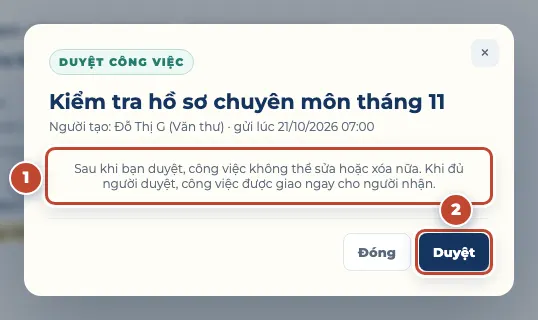
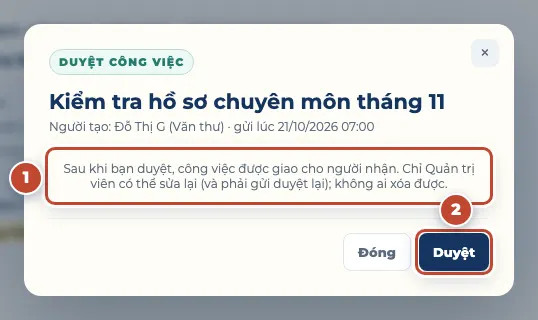
fix(work): approval polish — approve hint, editor-credited re-approval, form validation
- BGH approve dialog: approved work goes to assignees; only an admin can
  edit again (with re-approval) and nobody can delete. Guide text and
  cv-duyet-cong-viec-modal screenshot reshot.
- Re-approval bell/push credit the editor ("{tên} đã sửa và gửi lại công
  việc này để duyệt") when someone other than the creator resubmitted;
  first submissions keep the creator wording. Pure helpers
  workApprovalResubmittedBy / workApprovalRequestText with tests.
- Work editor validates before the save confirmation / preview; a missing
  approver shows only the picker field error (no duplicate banner).
- Completion evidence form: noValidate + inline Vietnamese
  "Vui lòng chọn loại văn bản." instead of the browser tooltip.

Changed region(s): [[0.119, 0.5, 0.8922, 0.5938]]

diff --git a/public/huong-dan-su-dung.html b/public/huong-dan-su-dung.html
@@ -1000,10 +1000,10 @@ mark { background: #fff3c8; color: inherit; border-radius: 3px; padding: 0 1px; 
 <ol class="steps"><li>Mở <strong>Công việc</strong>. Mục <strong>Chờ tôi duyệt</strong> nằm đầu trang; số đỏ cạnh menu đã tính cả các việc này. Nút <strong>?</strong> <span class="step-ref" aria-label="số 1">1</span> cạnh tên trang mở hướng dẫn này.</li><li>Mỗi thẻ <span class="step-ref" aria-label="số 2">2</span> ghi Văn thư gửi, giờ gửi, tệp đính kèm, người nhận, nội dung và hạn.</li><li>Khung <strong>Ban giám hiệu duyệt x/y</strong> <span class="step-ref" aria-label="số 3">3</span> cho biết ai đã duyệt, ai còn chờ.</li><li>Chưa đồng ý: bấm <strong>Trả lại</strong> <span class="step-ref" aria-label="số 4">4</span>. Đồng ý: bấm <strong>Duyệt</strong> <span class="step-ref" aria-label="số 5">5</span>.</li><li>Khi đã có người duyệt trước <span class="step-ref" aria-label="số 6">6</span>, thẻ chỉ còn nút <strong>Duyệt</strong>, không trả lại được nữa.</li><li>Bấm <strong>Đã xử lý trong 30 ngày</strong> <span class="step-ref" aria-label="số 7">7</span> để xem lại những việc mình đã duyệt hoặc trả lại.</li></ol>
 <figure class="figure" id="hinh-55"><button type="button" class="figure-zoom" aria-label="Phóng to hình 55"><img src="huong-dan/cv-cho-toi-duyet.webp" width="1018" height="1059" alt="Hình 55. Chờ tôi duyệt: 1 nút ?, 2 công việc chờ duyệt, 3 tiến độ duyệt, 4 Trả lại, 5 Duyệt, 6 việc đã có người duyệt, 7 lịch sử 30 ngày" loading="lazy" decoding="async"></button><figcaption><b>Hình 55.</b> Chờ tôi duyệt: 1 nút ?, 2 công việc chờ duyệt, 3 tiến độ duyệt, 4 Trả lại, 5 Duyệt, 6 việc đã có người duyệt, 7 lịch sử 30 ngày</figcaption></figure>
 <h5>Duyệt</h5>
-<p>Hộp xác nhận nhắc: sau khi duyệt, công việc <strong>không sửa, xóa được nữa</strong> <span class="step-ref" aria-label="số 1">1</span>. Bấm <strong>Duyệt</strong> <span class="step-ref" aria-label="số 2">2</span>. Khi đủ người duyệt, người nhận thấy việc và nhận thông báo ngay.</p>
+<p>Hộp xác nhận nhắc <span class="step-ref" aria-label="số 1">1</span>: sau khi duyệt, công việc được giao cho người nhận; chỉ <strong>Quản trị viên</strong> còn sửa được (và phải gửi duyệt lại), không ai xóa được. Bấm <strong>Duyệt</strong> <span class="step-ref" aria-label="số 2">2</span>. Khi đủ người duyệt, người nhận thấy việc và nhận thông báo ngay.</p>
 <h5>Trả lại</h5>
 <p>Ghi <strong>Lý do trả lại</strong> <span class="step-ref" aria-label="số 1">1</span> (bắt buộc, tối đa 500 ký tự), rồi bấm <strong>Trả lại</strong> <span class="step-ref" aria-label="số 2">2</span>. Văn thư nhận thông báo kèm lý do, sửa và gửi duyệt lại.</p>
-<div class="figure-row"><figure class="figure" id="hinh-56"><button type="button" class="figure-zoom" aria-label="Phóng to hình 56"><img src="huong-dan/cv-duyet-cong-viec-modal.webp" width="538" height="320" alt="Hình 56. Hộp Duyệt công việc: 1 lưu ý khóa sửa/xóa, 2 Duyệt" loading="lazy" decoding="async"></button><figcaption><b>Hình 56.</b> Hộp Duyệt công việc: 1 lưu ý khóa sửa/xóa, 2 Duyệt</figcaption></figure><figure class="figure" id="hinh-57"><button type="button" class="figure-zoom" aria-label="Phóng to hình 57"><img src="huong-dan/cv-tra-lai-modal.webp" width="538" height="454" alt="Hình 57. Hộp Trả lại công việc: 1 lý do, 2 Trả lại" loading="lazy" decoding="async"></button><figcaption><b>Hình 57.</b> Hộp Trả lại công việc: 1 lý do, 2 Trả lại</figcaption></figure></div>
+<div class="figure-row"><figure class="figure" id="hinh-56"><button type="button" class="figure-zoom" aria-label="Phóng to hình 56"><img src="huong-dan/cv-duyet-cong-viec-modal.webp" width="538" height="320" alt="Hình 56. Hộp Duyệt công việc: 1 lưu ý sau khi duyệt, 2 Duyệt" loading="lazy" decoding="async"></button><figcaption><b>Hình 56.</b> Hộp Duyệt công việc: 1 lưu ý sau khi duyệt, 2 Duyệt</figcaption></figure><figure class="figure" id="hinh-57"><button type="button" class="figure-zoom" aria-label="Phóng to hình 57"><img src="huong-dan/cv-tra-lai-modal.webp" width="538" height="454" alt="Hình 57. Hộp Trả lại công việc: 1 lý do, 2 Trả lại" loading="lazy" decoding="async"></button><figcaption><b>Hình 57.</b> Hộp Trả lại công việc: 1 lý do, 2 Trả lại</figcaption></figure></div>
 <p>Khi Văn thư gửi (hoặc gửi lại) công việc, chuông hiện <strong>Công việc chờ duyệt</strong> <span class="step-ref" aria-label="số 1">1</span>; bấm vào để mở đúng thẻ.</p>
 <div class="figure-row"><figure class="figure" id="hinh-58"><button type="button" class="figure-zoom" aria-label="Phóng to hình 58"><img src="huong-dan/cv-thong-bao-duyet.webp" width="471" height="402" alt="Hình 58. Chuông của Ban Giám hiệu: 1 Công việc chờ duyệt" loading="lazy" decoding="async"></button><figcaption><b>Hình 58.</b> Chuông của Ban Giám hiệu: 1 Công việc chờ duyệt</figcaption></figure><figure class="figure is-phone" id="hinh-59"><button type="button" class="figure-zoom" aria-label="Phóng to hình 59"><img src="huong-dan/cv-cho-toi-duyet-mobile.webp" width="390" height="844" alt="Hình 59. Trên điện thoại: 1 Trả lại, 2 Duyệt" loading="lazy" decoding="async"></button><figcaption><b>Hình 59.</b> Trên điện thoại: 1 Trả lại, 2 Duyệt</figcaption></figure></div>
 <aside class="callout callout-warn"><p class="callout-title"><svg viewBox="0 0 24 24" width="18" height="18" fill="none" stroke="currentColor" stroke-width="2" stroke-linecap="round" stroke-linejoin="round" aria-hidden="true"><path d="M12 3 2 20h20L12 3Z"/><path d="M12 10v4M12 17h.01"/></svg><span>Lưu ý</span></p><p><strong>Trả lại</strong> chỉ dùng được khi <strong>chưa ai duyệt</strong>. Lần duyệt đầu tiên khóa công việc: Văn thư không sửa, xóa được nữa, kể cả khi người duyệt khác chưa quyết định. Chỉ Administrator còn sửa được, và khi đó công việc quay lại <strong>Chờ tôi duyệt</strong> để duyệt lại.</p></aside>
@@ -1011,7 +1011,7 @@ mark { background: #fff3c8; color: inherit; border-radius: 3px; padding: 0 1px; 
 <h4>Câu hỏi thường gặp</h4>
 <details class="faq"><summary>Tôi không thấy mục Chờ tôi duyệt?</summary><div class="faq-answer"><p>Mục này chỉ hiện với người được Văn thư chọn làm người duyệt (chức vụ 4–5 sao). Khi không có việc nào, mục báo “Không có công việc chờ bạn duyệt”.</p></div></details>
 <details class="faq"><summary>Văn thư sửa công việc tôi đã trả lại thì sao?</summary><div class="faq-answer"><p>Công việc quay lại <strong>Chờ tôi duyệt</strong> như một yêu cầu mới; mọi người duyệt quyết định lại từ đầu.</p></div></details>
-<details class="faq"><summary>Công việc tôi đã duyệt lại hiện trong Chờ tôi duyệt?</summary><div class="faq-answer"><p>Administrator đã sửa công việc sau khi duyệt. Mọi quyết định cũ được xóa, người nhận tạm không thấy việc cho đến khi đủ người duyệt lại. Thẻ ghi “Đã chỉnh sửa bởi … lúc …” để biết ai sửa.</p></div></details>
+<details class="faq"><summary>Công việc tôi đã duyệt lại hiện trong Chờ tôi duyệt?</summary><div class="faq-answer"><p>Administrator đã sửa công việc sau khi duyệt. Mọi quyết định cũ được xóa, người nhận tạm không thấy việc cho đến khi đủ người duyệt lại. Chuông và thông báo đẩy ghi “{tên người sửa} đã sửa và gửi lại công việc này để duyệt”; thẻ ghi “Đã chỉnh sửa bởi … lúc …” để biết ai sửa.</p></div></details>
 </article>
 <article class="topic" id="cv-duyet-hoan-thanh" data-keywords="duyet hoan thanh, cham diem, muc do, phan tram, tra ve, chua duyet">
 <header class="topic-head"><h3><a class="topic-anchor" href="#cv-duyet-hoan-thanh">Duyệt kết quả hoàn thành</a></h3><div class="chips"><span class="chip chip-menu">Công việc</span><span class="chip">Người tạo công việc (Văn thư</span><span class="chip">Tổ trưởng</span><span class="chip">Tổ phó</span><span class="chip">Ban Giám hiệu</span><span class="chip">Administrator)</span></div></header>

diff --git a/src/work/WorkViews.jsx b/src/work/WorkViews.jsx
@@ -558,7 +558,8 @@ function SubmitterNote({ note, label = 'Nội dung từ người nộp' }) {
   );
 }
 
-function DocumentTypeField({ types, value, onChange, id = 'document-type' }) {
+function DocumentTypeField({ types, value, onChange, id = 'document-type', error = '' }) {
+  const errorId = `${id}-error`;
   return (
     <label className="duty-field work-document-type-field" htmlFor={id}>
       <span className="duty-field-label">Loại văn bản</span>
@@ -567,12 +568,15 @@ function DocumentTypeField({ types, value, onChange, id = 'document-type' }) {
         required
         value={value}
         onChange={(event) => onChange(event.target.value)}
+        aria-invalid={error ? true : undefined}
+        aria-describedby={error ? errorId : undefined}
       >
         <option value="">Chọn loại văn bản</option>
         {(types || []).map((item) => (
           <option key={item._id} value={item._id}>{item.name}</option>
         ))}
       </select>
+      {error ? <span id={errorId} className="work-field-error" role="alert">{error}</span> : null}
     </label>
   );
 }
@@ -582,6 +586,7 @@ function CompletionSubmitModal({ title, onClose, onSubmit, saving, documentTypes
   const [file, setFile] = useState(null);
   const [note, setNote] = useState('');
   const [documentTypeId, setDocumentTypeId] = useState('');
+  const [documentTypeError, setDocumentTypeError] = useState('');
   const [error, setError] = useState('');
   const submit = async (event) => {
     event.preventDefault();
@@ -590,9 +595,11 @@ function CompletionSubmitModal({ title, onClose, onSubmit, saving, documentTypes
       return;
     }
     if (requireDocumentType && !documentTypeId) {
-      setError('Vui lòng chọn loại văn bản.');
+      setError('');
+      setDocumentTypeError('Vui lòng chọn loại văn bản.');
       return;
     }
+    setDocumentTypeError('');
     setError('');
     try {
       const token = await fetchAccessToken({ forceRefreshToken: false });
@@ -629,7 +636,7 @@ function CompletionSubmitModal({ title, onClose, onSubmit, saving, documentTypes
   };
   return (
     <div className="work-modal-backdrop" role="presentation">
-      <form className="work-modal" onSubmit={submit}>
+      <form className="work-modal" onSubmit={submit} noValidate>
         <button type="button" className="work-modal-close" onClick={onClose} aria-label="Đóng">×</button>
         <span className="work-kicker">Nộp công việc</span>
         <h3>{title}</h3>
@@ -639,7 +646,10 @@ function CompletionSubmitModal({ title, onClose, onSubmit, saving, documentTypes
           label="Kéo thả tài liệu/hình vào đây"
           onFile={(nextFile, fileError) => {
             setFile(nextFile);
-            if (!nextFile) setDocumentTypeId('');
+            if (!nextFile) {
+              setDocumentTypeId('');
+              setDocumentTypeError('');
+            }
             if (fileError) setError(fileError);
           }}
         />
@@ -648,7 +658,11 @@ function CompletionSubmitModal({ title, onClose, onSubmit, saving, documentTypes
             id="completion-document-type"
             types={documentTypes}
             value={documentTypeId}
-            onChange={setDocumentTypeId}
+            onChange={(next) => {
+              setDocumentTypeId(next);
+              if (next) setDocumentTypeError('');
+            }}
+            error={documentTypeError}
           />
         ) : null}
         <label className="work-field-label" htmlFor="completion-note">Nội dung gửi người giao (không bắt buộc)</label>
@@ -873,6 +887,31 @@ export function WorkManagement({ allowCreate = true, hideCompletionQueue = false
     if (fallback?._id) setDocumentTypeId(fallback._id);
   }, [documentTypeId, editingDocument, listData?.documentTypes, options?.documentTypes]);
 
+  /**
+   * Client-side checks run before any confirmation/preview (the server re-checks).
+   * A missing approver shows only the picker's field error, not a second banner.
+   */
+  const validateWorkForm = () => {
+    if (!title.trim()) {
+      setFeedback({ type: 'error', text: 'Vui lòng nhập tên công việc.' });
+      return false;
+    }
+    if (!assignments.length) {
+      setFeedback({ type: 'error', text: 'Vui lòng thêm ít nhất một phân công.' });
+      return false;
+    }
+    if (file && !documentTypeId) {
+      setFeedback({ type: 'error', text: 'Vui lòng chọn loại văn bản.' });
+      return false;
+    }
+    if (needsApproverPick && !approverIds.length) {
+      setFeedback({ type: '', text: '' });
+      setApproverError('Vui lòng chọn ít nhất một người duyệt.');
+      return false;
+    }
+    return true;
+  };
+
   const persistWork = async () => {
     if (saving) return;
     setFeedback({ type: '', text: '' });
@@ -897,19 +936,7 @@ export function WorkManagement({ allowCreate = true, hideCompletionQueue = false
       }
       return;
     }
-    if (!title.trim()) {
-      return setFeedback({ type: 'error', text: 'Vui lòng nhập tên công việc.' });
-    }
-    if (!assignments.length) {
-      return setFeedback({ type: 'error', text: 'Vui lòng thêm ít nhất một phân công.' });
-    }
-    if (file && !documentTypeId) {
-      return setFeedback({ type: 'error', text: 'Vui lòng chọn loại văn bản.' });
-    }
-    if (needsApproverPick && !approverIds.length) {
-      setApproverError('Vui lòng chọn ít nhất một người duyệt.');
-      return setFeedback({ type: 'error', text: 'Vui lòng chọn người duyệt thuộc Ban giám hiệu.' });
-    }
+    if (!validateWorkForm()) return;
     setSaving(true);
     let stage = file ? 'upload' : 'save';
     let uploaded = null;
@@ -1012,17 +1039,10 @@ export function WorkManagement({ allowCreate = true, hideCompletionQueue = false
       void persistWork();
       return;
     }
+    // Validate first so a missing field never hides behind the save confirmation.
+    if (!validateWorkForm()) return;
     if (editingDocument) {
       setEditConfirm('save');
-      return;
-    }
-    if (!assignments.length) {
-      setFeedback({ type: 'error', text: 'Vui lòng thêm ít nhất một phân công.' });
-      return;
-    }
-    if (needsApproverPick && !approverIds.length) {
-      setApproverError('Vui lòng chọn ít nhất một người duyệt.');
-      setFeedback({ type: 'error', text: 'Vui lòng chọn người duyệt thuộc Ban giám hiệu.' });
       return;
     }
     setPreviewOpen(true);

diff --git a/convex/workDocumentPolicy.ts b/convex/workDocumentPolicy.ts
@@ -428,3 +428,43 @@ export function workCreatorApprovalNotice(
   }
   return null;
 }
+
+/** Bell wording for a first submission (or a creator's own resubmission). */
+export const WORK_APPROVAL_REQUEST_CREATOR_TEXT =
+  "Văn thư đã gửi công việc này, cần bạn duyệt trước khi giao.";
+
+/**
+ * Who sent the current approval round, when it was not the creator: an edit
+ * (e.g. an admin re-approval edit) stamps `lastEditedBy` together with
+ * `submittedAt`. Returns the editor's id, or null when the creator submitted.
+ */
+export function workApprovalResubmittedBy(document: {
+  createdBy?: unknown;
+  lastEditedBy?: unknown;
+  lastEditedAt?: unknown;
+  submittedAt?: unknown;
+}): string | null {
+  const editor = String(document.lastEditedBy ?? "").trim();
+  if (!editor || editor === String(document.createdBy ?? "")) return null;
+  const editedAt = Number(document.lastEditedAt) || 0;
+  const submittedAt = Number(document.submittedAt) || 0;
+  if (!editedAt || editedAt < submittedAt) return null;
+  return editor;
+}
+
+/**
+ * Approval-request texts for Ban giám hiệu. `editorName` is set only when the
+ * round was (re)submitted by someone other than the creator.
+ */
+export function workApprovalRequestText(args: { title: string; editorName?: string | null }) {
+  const title = String(args.title || "").trim();
+  const editorName = String(args.editorName || "").trim();
+  if (!editorName) {
+    return { description: WORK_APPROVAL_REQUEST_CREATOR_TEXT, pushBody: title };
+  }
+  const sentence = `${editorName} đã sửa và gửi lại công việc này để duyệt`;
+  return {
+    description: `${sentence}.`,
+    pushBody: title ? `${sentence}: ${title}` : `${sentence}.`,
+  };
+}

diff --git a/convex/work.ts b/convex/work.ts
@@ -50,6 +50,7 @@ import {
   isEligibleWorkApprover,
   isWorkApprovalLocked,
   workApprovalDecidedAt,
+  workApprovalRequestText,
   workApprovalSubmission,
   workAssignmentsUnchanged,
   workDocumentEditPolicy,
@@ -1164,13 +1165,21 @@ async function notifyWorkAssignees(
 /** Push "Công việc chờ duyệt" to the designated approvers of a (re)submitted document. */
 async function notifyWorkApprovers(
   ctx: any,
-  args: { approverUserIds: string[]; documentId: string; title: string; resubmitted: boolean },
+  args: {
+    approverUserIds: string[];
+    documentId: string;
+    title: string;
+    resubmitted: boolean;
+    /** Set when someone other than the creator (re)submitted, e.g. an admin edit. */
+    editorName?: string | null;
+  },
 ) {
   if (!args.approverUserIds.length) return;
+  const { pushBody } = workApprovalRequestText({ title: args.title, editorName: args.editorName });
   await ctx.scheduler.runAfter(0, internal.pushActions.sendToUsers, {
     userIds: args.approverUserIds.map(String),
     title: args.resubmitted ? "Công việc chờ duyệt lại" : "Công việc chờ duyệt",
-    body: args.title,
+    body: pushBody,
     kind: "work",
     sourceType: "approval",
     sourceId: args.documentId,
@@ -1580,6 +1589,9 @@ export const updateDocument = mutation({
         documentId: String(args.documentId),
         title: displayTitle,
         resubmitted: true,
+        editorName: String(actor.user._id) !== String(document.createdBy)
+          ? String(actor.user.name || "").trim() || "Người dùng"
+          : null,
       });
     } else {
       await notifyWorkAssignees(ctx, {

diff --git a/convex/notifications.ts b/convex/notifications.ts
@@ -29,6 +29,8 @@ import {
 import {
   canApproveWorkDocument,
   workApprovalDecidedAt,
+  workApprovalRequestText,
+  workApprovalResubmittedBy,
   workCreatorApprovalNotice,
 } from "./workDocumentPolicy";
 import {
@@ -264,15 +266,23 @@ async function notificationItems(ctx: any, requestedNow?: number) {
   const submittedAtByDocument = new Map<string, number>();
   if (canSeeWorkModule && level >= 4 && !isOperationalManagerRole(user.role)) {
     // Ban giám hiệu: documents waiting for my approval decision (workflow, not a reminder switch).
+    const userNameById = new Map<string, string>(
+      users.map((row: any) => [String(row._id), String(row.name || "").trim()]),
+    );
     for (const document of activeDocuments) {
       if (!canApproveWorkDocument(document, String(user._id))) continue;
       submittedAtByDocument.set(String(document._id), Number(document.submittedAt || document.createdAt) || now);
+      const resubmittedBy = workApprovalResubmittedBy(document);
+      const { description } = workApprovalRequestText({
+        title: workListTitle(document),
+        editorName: resubmittedBy ? userNameById.get(resubmittedBy) || "Người dùng" : null,
+      });
       workSources.push({
         kind: "work",
         sourceType: "approval",
         sourceId: String(document._id),
         title: `Công việc chờ duyệt: ${workListTitle(document)}`,
-        description: "Văn thư đã gửi công việc này, cần bạn duyệt trước khi giao.",
+        description,
         dueAt: workDueAt(document.deadline),
       });
     }

diff --git a/src/work/WorkApprovalParts.jsx b/src/work/WorkApprovalParts.jsx
@@ -122,7 +122,7 @@ export function WorkDocumentDecisionModal({ document, mode, onClose, onSubmit, s
           </>
         ) : (
           <p className="work-muted">
-            Sau khi bạn duyệt, công việc không thể sửa hoặc xóa nữa. Khi đủ người duyệt, công việc được giao ngay cho người nhận.
+            Sau khi bạn duyệt, công việc được giao cho người nhận. Chỉ Quản trị viên có thể sửa lại (và phải gửi duyệt lại); không ai xóa được.
           </p>
         )}
         <div className="work-modal-actions">

diff --git a/src/work/work.css b/src/work/work.css
@@ -2351,6 +2351,10 @@ fieldset.work-approver-block > legend b {
   padding: 0;
 }
 
+.work-document-type-field select[aria-invalid="true"] {
+  border-color: var(--lvt-danger-line);
+}
+
 .work-approval-progress {
   display: grid;
   gap: 8px;

diff --git a/docs/guide/topics/work/cv-bgh-duyet-cong-viec.md b/docs/guide/topics/work/cv-bgh-duyet-cong-viec.md
@@ -17,12 +17,12 @@ Công việc Văn thư tạo chỉ được giao sau khi mọi người duyệt 
 ![Chờ tôi duyệt: 1 nút ?, 2 công việc chờ duyệt, 3 tiến độ duyệt, 4 Trả lại, 5 Duyệt, 6 việc đã có người duyệt, 7 lịch sử 30 ngày](cv-cho-toi-duyet)
 
 #### Duyệt
-Hộp xác nhận nhắc: sau khi duyệt, công việc **không sửa, xóa được nữa** [[1]]. Bấm **Duyệt** [[2]]. Khi đủ người duyệt, người nhận thấy việc và nhận thông báo ngay.
+Hộp xác nhận nhắc [[1]]: sau khi duyệt, công việc được giao cho người nhận; chỉ **Quản trị viên** còn sửa được (và phải gửi duyệt lại), không ai xóa được. Bấm **Duyệt** [[2]]. Khi đủ người duyệt, người nhận thấy việc và nhận thông báo ngay.
 
 #### Trả lại
 Ghi **Lý do trả lại** [[1]] (bắt buộc, tối đa 500 ký tự), rồi bấm **Trả lại** [[2]]. Văn thư nhận thông báo kèm lý do, sửa và gửi duyệt lại.
 
-![Hộp Duyệt công việc: 1 lưu ý khóa sửa/xóa, 2 Duyệt](cv-duyet-cong-viec-modal)
+![Hộp Duyệt công việc: 1 lưu ý sau khi duyệt, 2 Duyệt](cv-duyet-cong-viec-modal)
 ![Hộp Trả lại công việc: 1 lý do, 2 Trả lại](cv-tra-lai-modal)
 
 Khi Văn thư gửi (hoặc gửi lại) công việc, chuông hiện **Công việc chờ duyệt** [[1]]; bấm vào để mở đúng thẻ.
@@ -46,4 +46,4 @@ Mục này chỉ hiện với người được Văn thư chọn làm người d
 Công việc quay lại **Chờ tôi duyệt** như một yêu cầu mới; mọi người duyệt quyết định lại từ đầu.
 
 ??? Công việc tôi đã duyệt lại hiện trong Chờ tôi duyệt?
-Administrator đã sửa công việc sau khi duyệt. Mọi quyết định cũ được xóa, người nhận tạm không thấy việc cho đến khi đủ người duyệt lại. Thẻ ghi “Đã chỉnh sửa bởi … lúc …” để biết ai sửa.
+Administrator đã sửa công việc sau khi duyệt. Mọi quyết định cũ được xóa, người nhận tạm không thấy việc cho đến khi đủ người duyệt lại. Chuông và thông báo đẩy ghi “{tên người sửa} đã sửa và gửi lại công việc này để duyệt”; thẻ ghi “Đã chỉnh sửa bởi … lúc …” để biết ai sửa.
